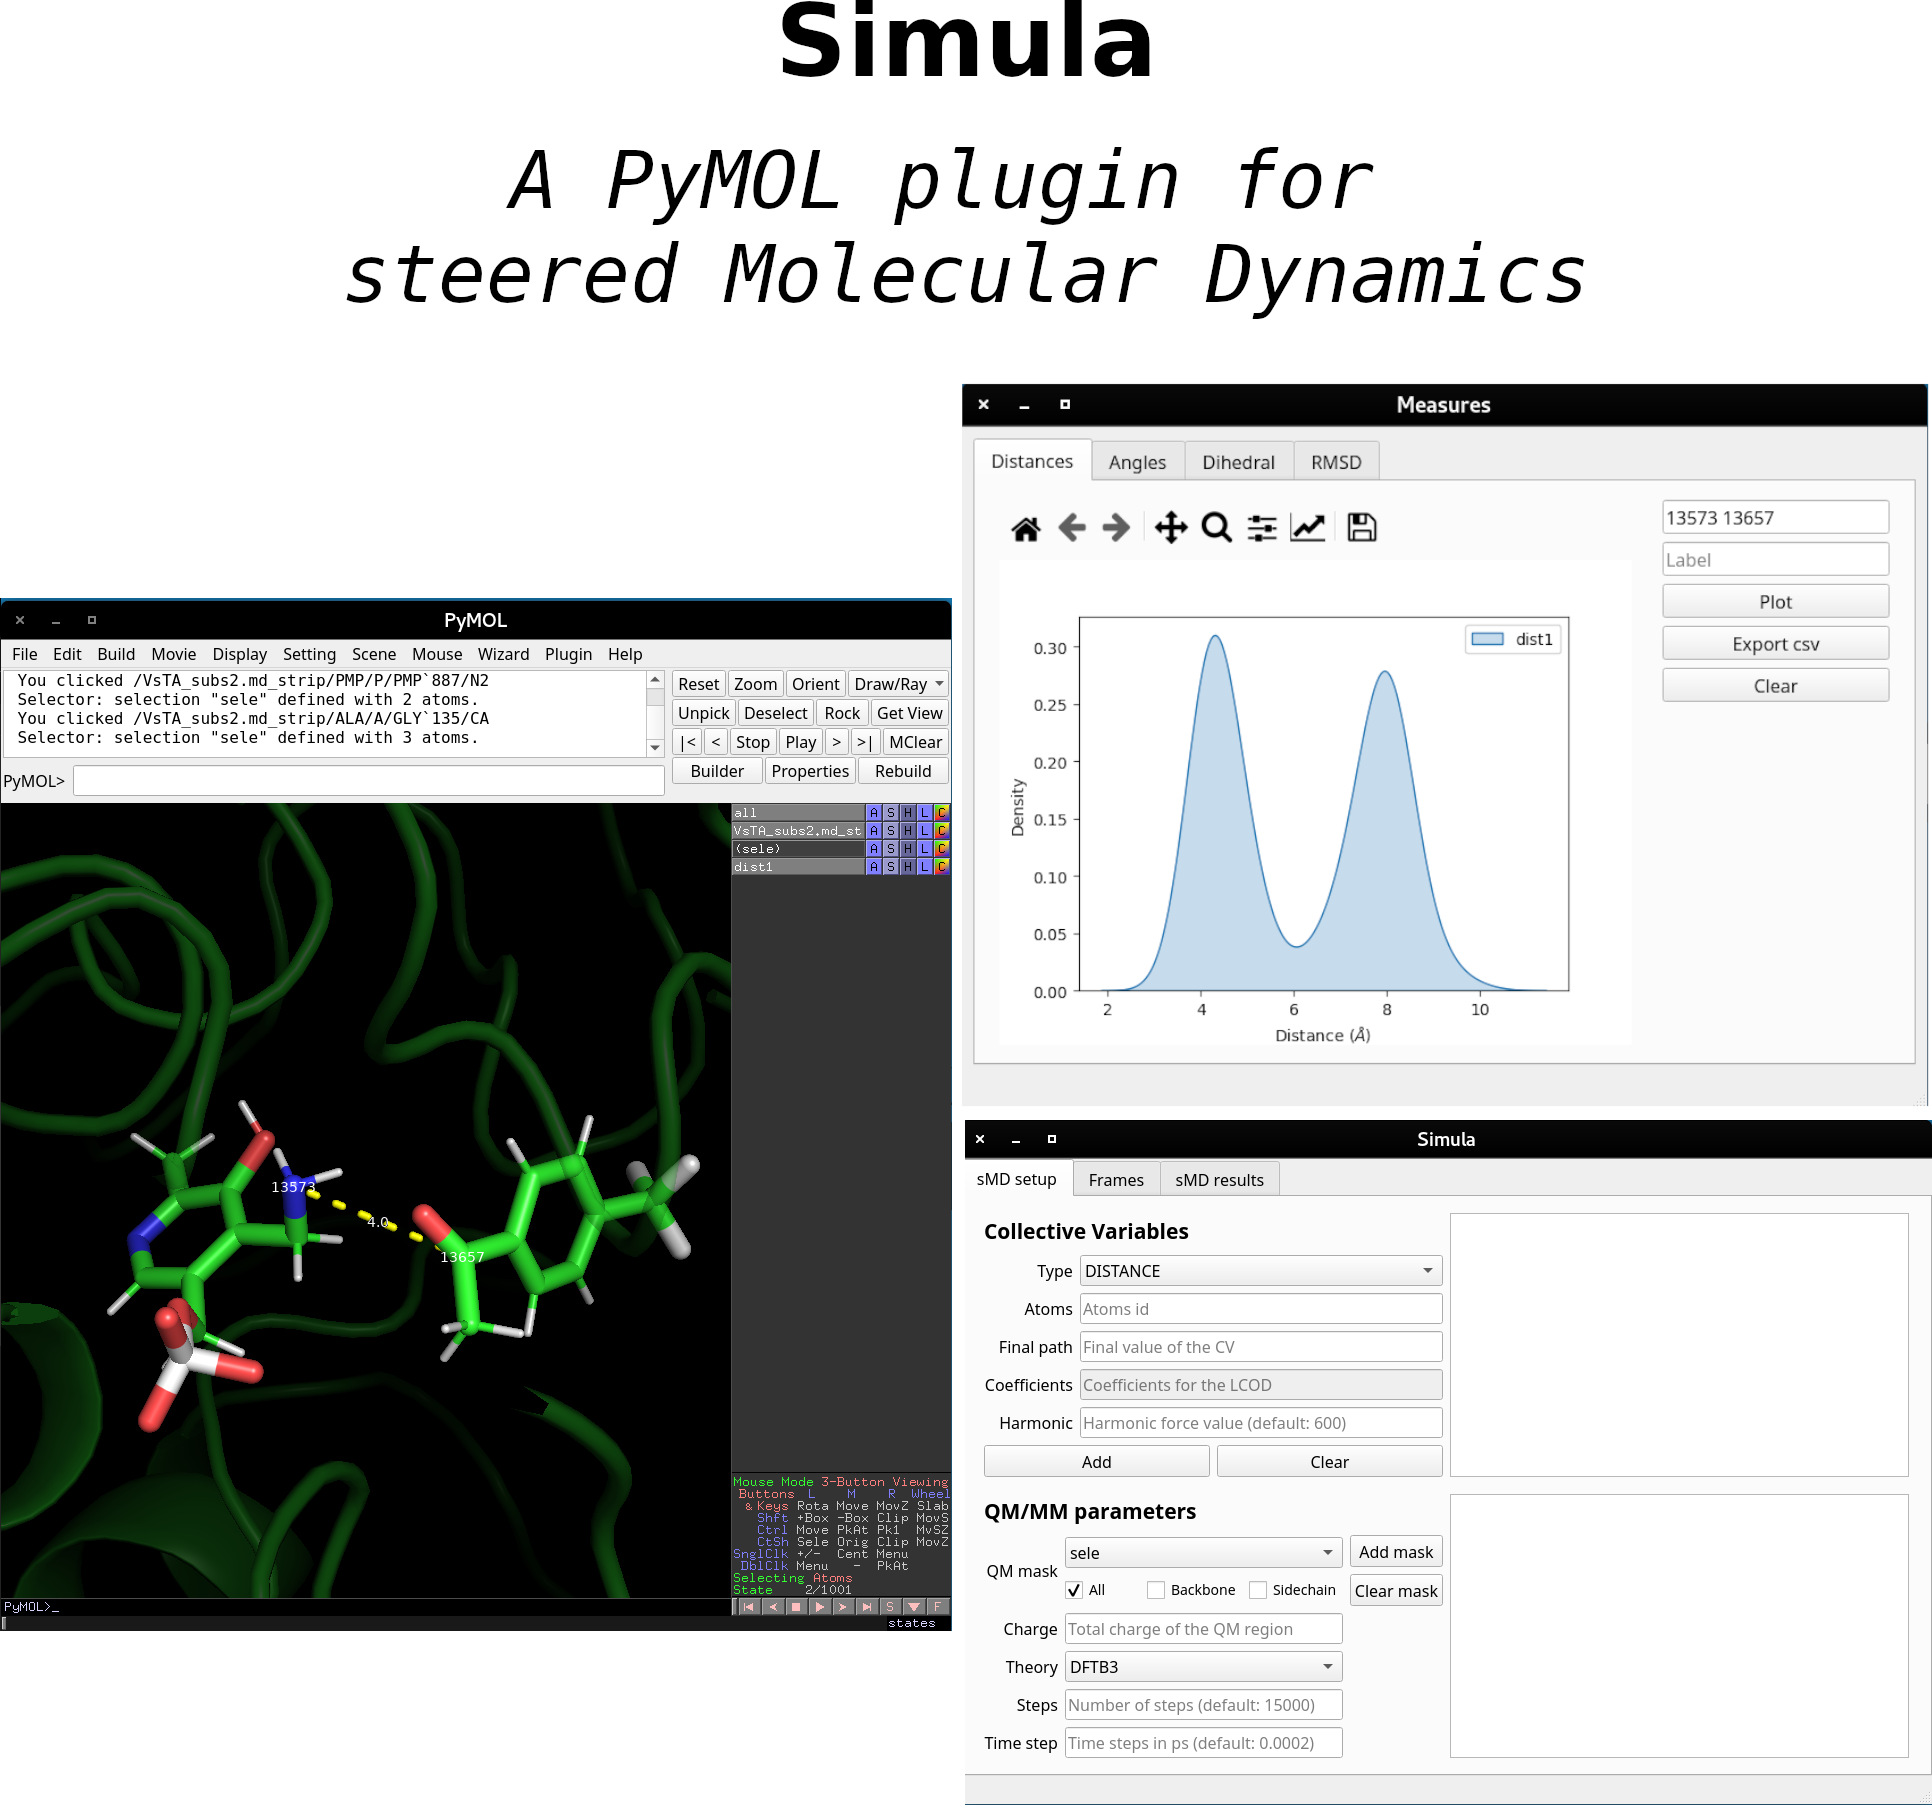
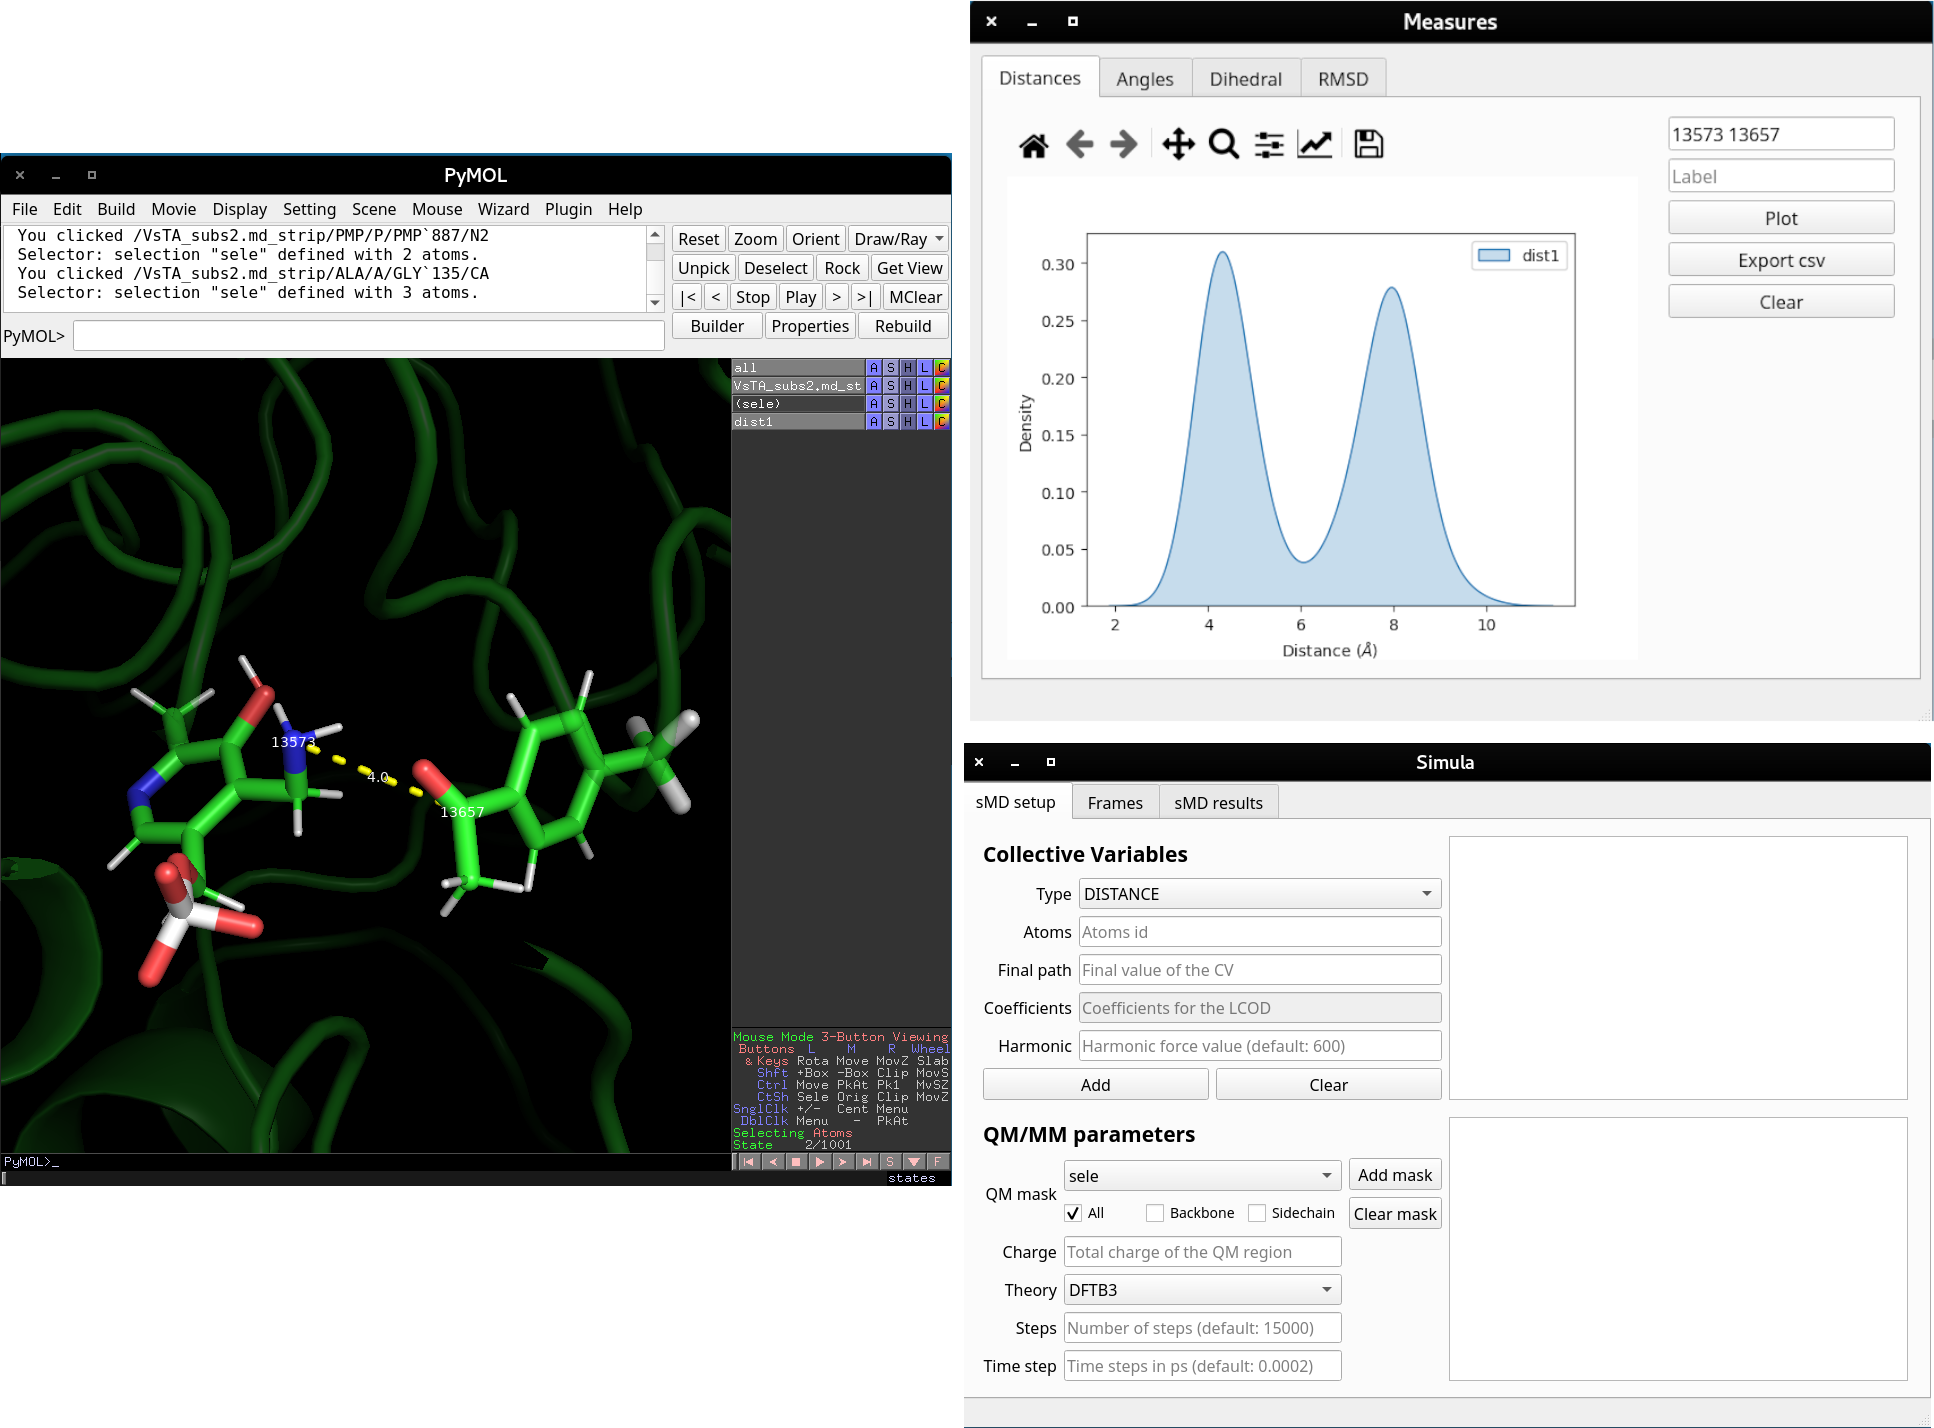
Test README2

diff --git a/README.md b/README.md
@@ -1,4 +1,6 @@
-<center><img src="readme.png" alt="load" width="500"/></center>
+<div align="center">
+<img src="readme.png" alt="load" width="500"/>
+</div>
 
 *Simula* is a Graphical User Interface to aid in the selection and setup of steered QM/MM MD simulations. At the current release it only supports Amber simulation software.
 
